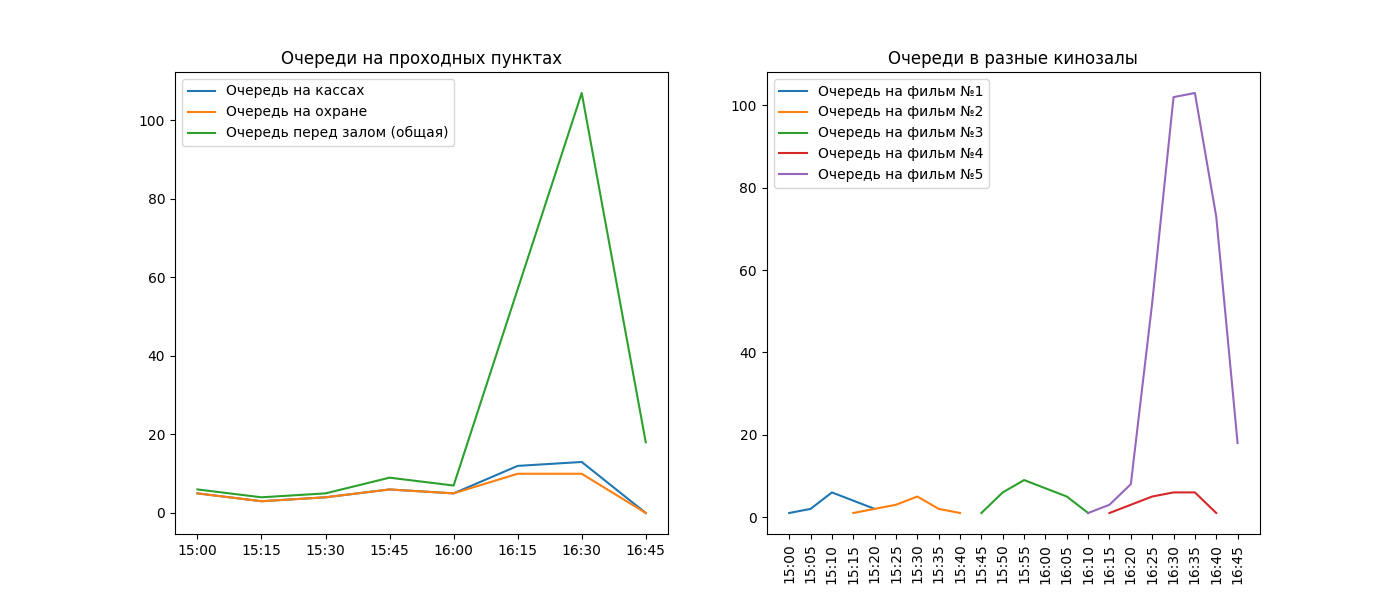
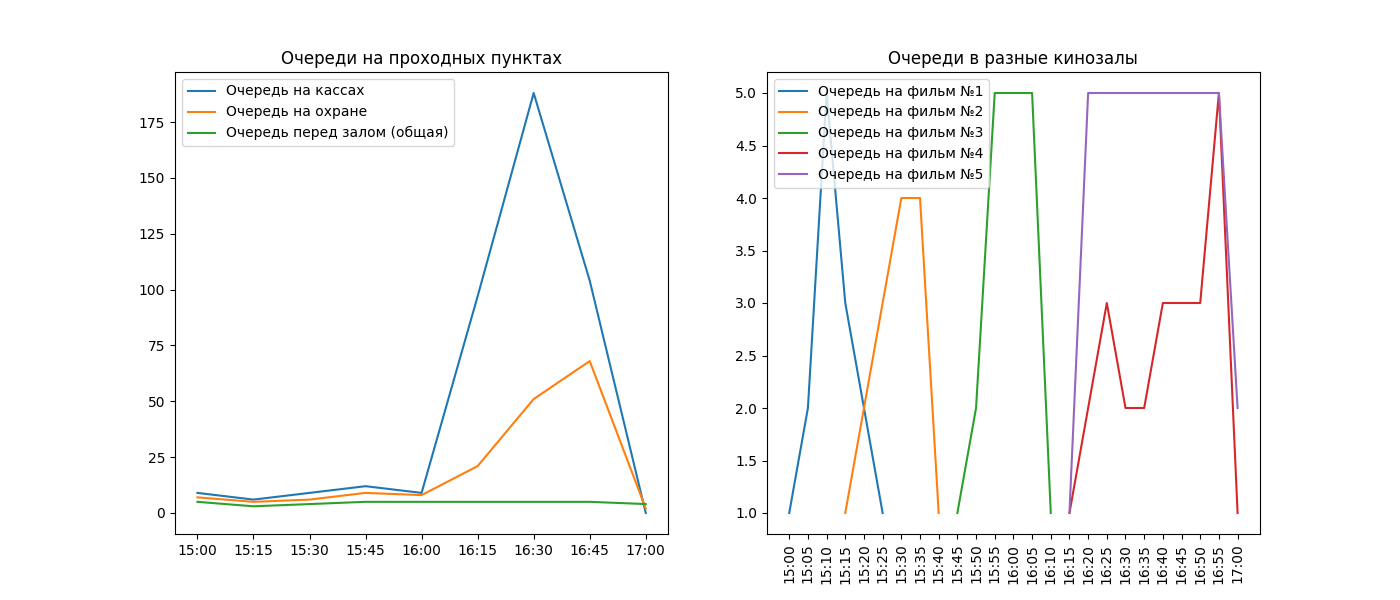
200% ready

diff --git a/main.py b/main.py
@@ -1,7 +1,7 @@
 import numpy as np
 import simpy
 import pandas as pd
-from componets import Cinema, Customer
+from models import Cinema, Customer
 from utils import time_to_seconds, maximum_at_intervals, extend_arrays
 
 #будем считать что в зал конкретный зал можно попасть только через определённое количество проходов, привязанных конкретно к этому сеансу
@@ -11,19 +11,20 @@ movies_schedule = pd.read_csv('movies.csv')
 np.random.seed(2510)
 
 #Настройки симуляции всё время указано в секундах
-N_tickets_desk = 10
-T_tickets = 10
-N_security = 10
-T_security = 10
-N_room_entarance = 4
-T_rooms_entarance = 20
-N_movies = len(movies_schedule)
-SIM_TIME = 3600 * 4
+N_tickets_desk = 10 #количество касс
+T_tickets = 50 #время обслуживания на кассе
+N_security = 5 #количество охранных пропусков
+T_security = 30 #время досмотра
+N_room_entarance = 3 #количество входов в кинозал
+T_rooms_entarance = 15 #время входа в кинозал
+N_movies = len(movies_schedule) #количество фильмов в расписании
+SIM_TIME = 3600 * 4 #длительность симуляции
 
-T_before_start = 15 #в минутах
-T_before_diviation = 5 #в минутах
+T_before_start = 15 #среднее время прихода до фильма в минутах
+T_before_diviation = 5 #стандартное отклонение времени прихода в минутах
 OPEN_TIME = "15:00" #время открытия, совпадает с начальной точкой по времени симуляции
 open_time_seconds = time_to_seconds(OPEN_TIME) #приведём время открытия к секунам
+
 
 #Запуск симуляции
 print("Simulation starts")
